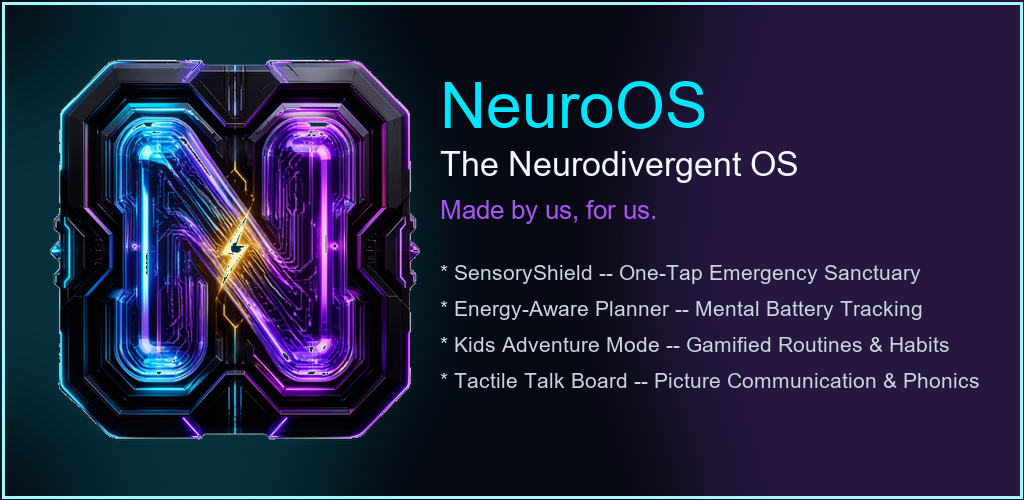
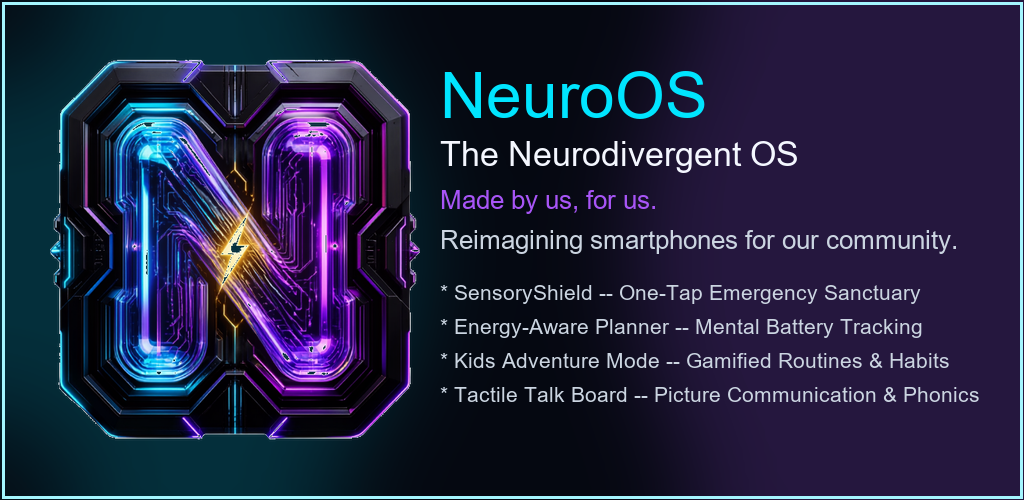
Update Play Store Feature Graphic with 'Reimagining smartphones for our community' tagline

Changed region(s): [[0.4375, 0.54, 0.9688, 0.81], [0.4375, 0.12, 0.7812, 0.36], [0.4062, 0.39, 0.9375, 0.51]]

diff --git a/generate_play_store_graphics.py b/generate_play_store_graphics.py
@@ -56,13 +56,16 @@ except:
     title_font = subtitle_font = tagline_font = bullet_font = ImageFont.load_default()
 
 # Title text: NeuroOS
-fg_draw.text((440, 70), "NeuroOS", fill=(0, 229, 255, 255), font=title_font)
+fg_draw.text((440, 60), "NeuroOS", fill=(0, 229, 255, 255), font=title_font)
 
 # Subtitle: The Neurodivergent OS
-fg_draw.text((440, 145), "The Neurodivergent OS", fill=(244, 247, 255, 255), font=subtitle_font)
+fg_draw.text((440, 135), "The Neurodivergent OS", fill=(244, 247, 255, 255), font=subtitle_font)
 
 # Tagline: Made by us, for us.
-fg_draw.text((440, 195), "Made by us, for us.", fill=(168, 85, 247, 255), font=tagline_font)
+fg_draw.text((440, 185), "Made by us, for us.", fill=(168, 85, 247, 255), font=tagline_font)
+
+# Sub-headline: Reimagining smartphones...
+fg_draw.text((440, 225), "Reimagining smartphones for our community.", fill=(203, 213, 225, 255), font=tagline_font)
 
 # Feature Bullets (Clean ASCII bullets, no missing glyph boxes)
 bullets = [
@@ -72,10 +75,10 @@ bullets = [
     "* Tactile Talk Board -- Picture Communication & Phonics"
 ]
 
-y_pos = 260
+y_pos = 280
 for b in bullets:
     fg_draw.text((440, y_pos), b, fill=(203, 213, 225, 255), font=bullet_font)
-    y_pos += 36
+    y_pos += 34
 
 # Outer Neon Frame
 fg_draw.rectangle([2, 2, 1022, 498], outline=(0, 229, 255, 90), width=3)
